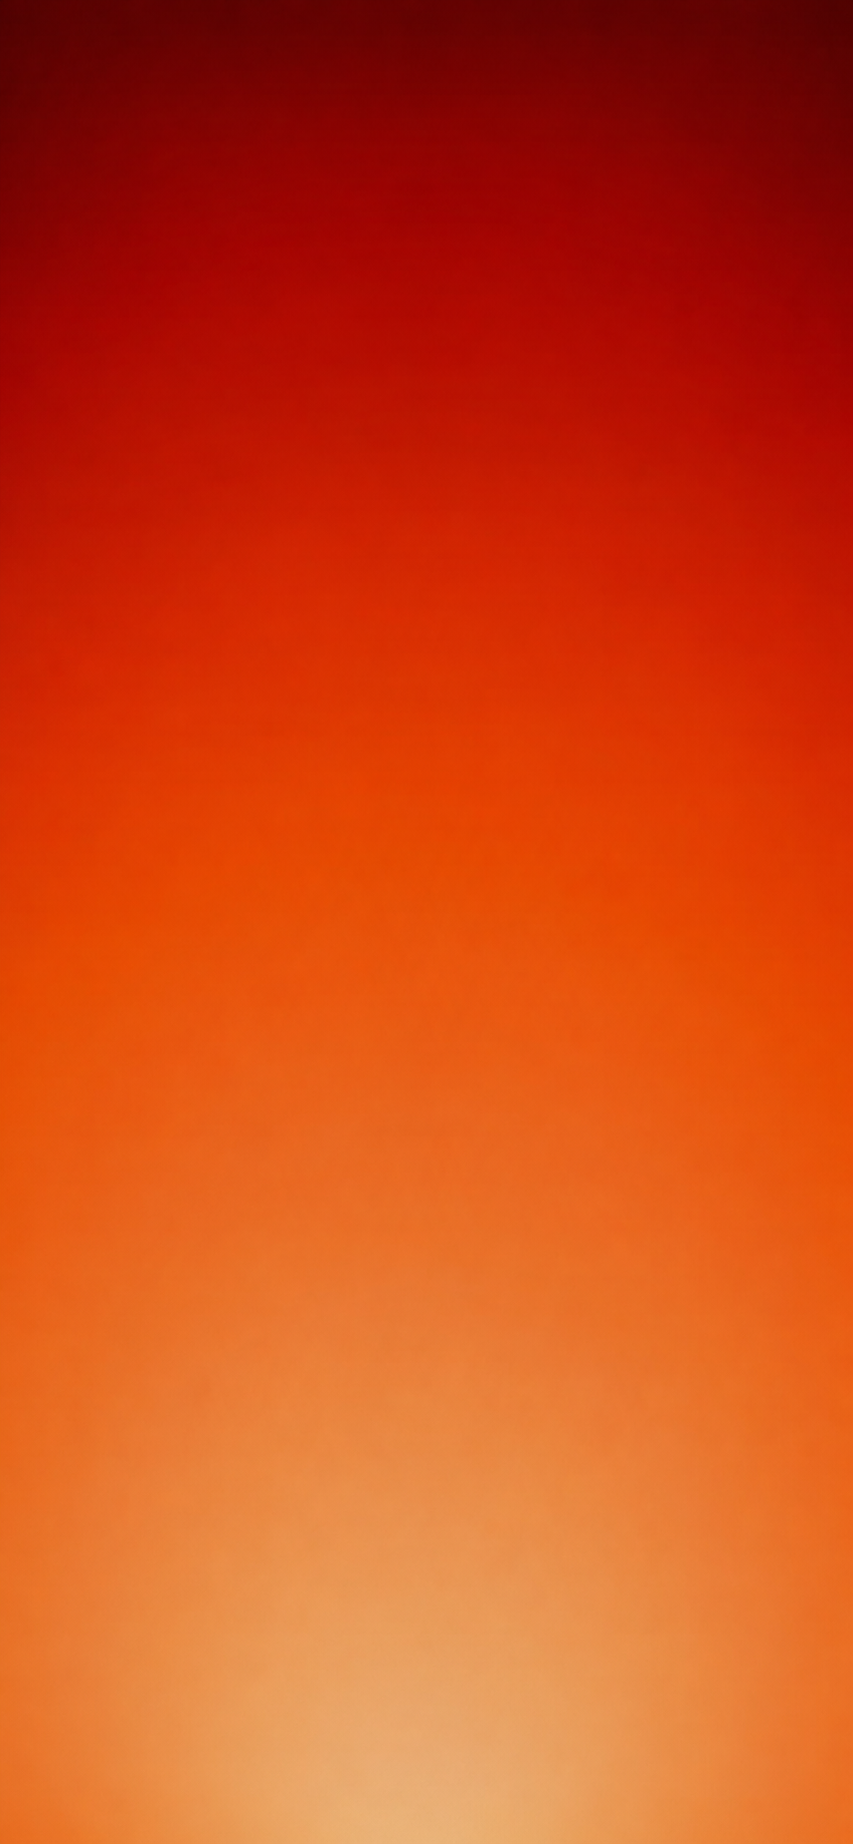
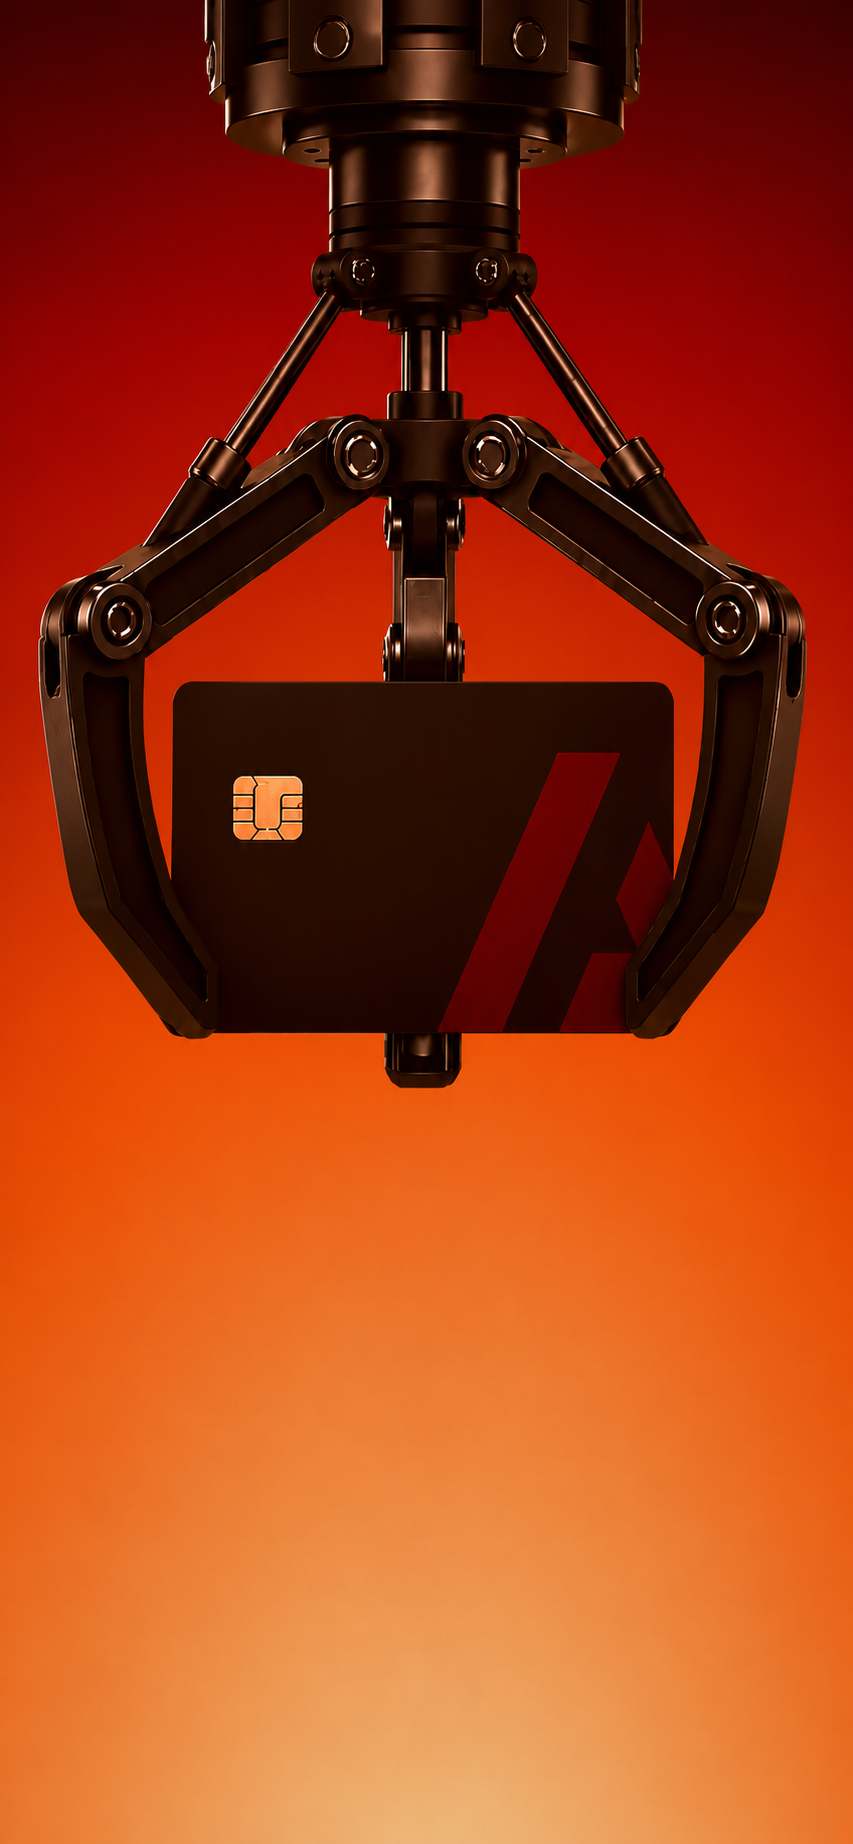
feat: implement onboarding screen with custom fonts and haptic feedback support

diff --git a/src/app/index.tsx b/src/app/index.tsx
@@ -1,46 +1,28 @@
 import React from "react";
 import {
-  Text,
-  View,
-  TouchableOpacity,
   ImageBackground,
+  Platform,
+  StyleSheet,
+  Text,
+  TouchableOpacity,
+  Vibration,
+  View,
 } from "react-native";
-import { useSafeAreaInsets } from "react-native-safe-area-context";
 import { StatusBar } from "expo-status-bar";
-
-function ArrowRightIcon({ size = 20, color = "#111111" }: { size?: number; color?: string }) {
-  return (
-    <View style={{ width: size, height: size }} className="items-center justify-center">
-      <View
-        style={{ width: size * 0.75, height: 2.2, backgroundColor: color }}
-        className="absolute left-0.5 rounded-full"
-      />
-      <View
-        style={{
-          width: size * 0.44,
-          height: 2.2,
-          backgroundColor: color,
-          top: size / 2 - 3.8,
-          transform: [{ rotate: "45deg" }],
-        }}
-        className="absolute right-0.5 rounded-full"
-      />
-      <View
-        style={{
-          width: size * 0.44,
-          height: 2.2,
-          backgroundColor: color,
-          bottom: size / 2 - 3.8,
-          transform: [{ rotate: "-45deg" }],
-        }}
-        className="absolute right-0.5 rounded-full"
-      />
-    </View>
-  );
-}
+import { useSafeAreaInsets } from "react-native-safe-area-context";
+import * as Haptics from "expo-haptics";
 
 export default function OnboardingScreen() {
   const insets = useSafeAreaInsets();
+
+  const handleGetStarted = async () => {
+    try {
+      await Haptics.impactAsync(Haptics.ImpactFeedbackStyle.Medium);
+    } catch {
+      // Fallback to native vibration for platforms/builds where expo-haptics isn't linked
+      Vibration.vibrate(Platform.OS === "android" ? 30 : 15);
+    }
+  };
 
   return (
     <View className="flex-1 bg-black">
@@ -48,7 +30,7 @@ export default function OnboardingScreen() {
 
       <ImageBackground
         source={require("../../assets/images/OnboardingBG.png")}
-        className="flex-1 w-full h-full"
+        className="flex-1"
         resizeMode="cover"
       >
         <View
@@ -58,8 +40,119 @@ export default function OnboardingScreen() {
             paddingBottom: Math.max(insets.bottom, 24) + 12,
           }}
         >
+          {/* Header */}
+          <View className="items-center mb-10">
+            {/* 3D Title */}
+            <View className="items-center justify-center">
+              <Text
+                allowFontScaling={false}
+                maxFontSizeMultiplier={1}
+                style={[styles.title, styles.titleShadowDeep]}
+              >
+                MARK X
+              </Text>
+              <Text
+                allowFontScaling={false}
+                maxFontSizeMultiplier={1}
+                style={[styles.title, styles.titleShadowMid]}
+              >
+                MARK X
+              </Text>
+              <Text
+                allowFontScaling={false}
+                maxFontSizeMultiplier={1}
+                style={[styles.title, styles.titleFront]}
+              >
+                MARK X
+              </Text>
+            </View>
+
+            {/* Subtitles */}
+            <Text
+              allowFontScaling={false}
+              maxFontSizeMultiplier={1}
+              style={styles.subtitleSmall}
+            >
+              REDEFINING
+            </Text>
+            <Text
+              allowFontScaling={false}
+              maxFontSizeMultiplier={1}
+              style={styles.subtitleLarge}
+            >
+              WHAT'S POSSIBLE
+            </Text>
+          </View>
+
+          {/* Action Button */}
+          <TouchableOpacity
+            onPress={handleGetStarted}
+            activeOpacity={0.85}
+            className="h-14 rounded-full bg-white items-center justify-center mb-2"
+          >
+            <Text
+              allowFontScaling={false}
+              maxFontSizeMultiplier={1}
+              style={styles.buttonText}
+            >
+              Get Started
+            </Text>
+          </TouchableOpacity>
         </View>
       </ImageBackground>
     </View>
   );
 }
+
+const styles = StyleSheet.create({
+  title: {
+    fontFamily: "Outfit_900Black",
+    fontSize: 54,
+    lineHeight: 58,
+    letterSpacing: 3,
+    textAlign: "center",
+  },
+  titleShadowDeep: {
+    position: "absolute",
+    top: 4.5,
+    color: "rgba(0, 0, 0, 0.95)",
+    textShadowColor: "rgba(0, 0, 0, 0.8)",
+    textShadowOffset: { width: 0, height: 6 },
+    textShadowRadius: 10,
+  },
+  titleShadowMid: {
+    position: "absolute",
+    top: 2.5,
+    color: "#6E1B00",
+  },
+  titleFront: {
+    color: "#FFFFFF",
+    textShadowColor: "rgba(255, 100, 0, 0.85)",
+    textShadowOffset: { width: 0, height: 2 },
+    textShadowRadius: 8,
+  },
+  subtitleSmall: {
+    fontFamily: "Outfit_400Regular",
+    fontSize: 20,
+    lineHeight: 26,
+    letterSpacing: 4.5,
+    color: "#FFFFFF",
+    textAlign: "center",
+    marginTop: 24,
+  },
+  subtitleLarge: {
+    fontFamily: "Outfit_900Black",
+    fontSize: 28,
+    lineHeight: 34,
+    letterSpacing: 2,
+    color: "#FFFFFF",
+    textAlign: "center",
+    marginTop: 4,
+  },
+  buttonText: {
+    fontFamily: "Outfit_600SemiBold",
+    fontSize: 17,
+    letterSpacing: -0.2,
+    color: "#171717",
+  },
+});

diff --git a/src/app/_layout.tsx b/src/app/_layout.tsx
@@ -1,8 +1,41 @@
 import "../global.css";
+import { useEffect } from "react";
 import { DarkTheme, ThemeProvider, Stack } from "expo-router";
 import { StatusBar } from "expo-status-bar";
+import * as SplashScreen from "expo-splash-screen";
+import {
+  useFonts,
+  Outfit_400Regular,
+  Outfit_500Medium,
+  Outfit_600SemiBold,
+  Outfit_700Bold,
+  Outfit_800ExtraBold,
+  Outfit_900Black,
+} from "@expo-google-fonts/outfit";
+
+// Keep splash screen visible while loading font assets
+SplashScreen.preventAutoHideAsync();
 
 export default function RootLayout() {
+  const [fontsLoaded, fontError] = useFonts({
+    Outfit_400Regular,
+    Outfit_500Medium,
+    Outfit_600SemiBold,
+    Outfit_700Bold,
+    Outfit_800ExtraBold,
+    Outfit_900Black,
+  });
+
+  useEffect(() => {
+    if (fontsLoaded || fontError) {
+      SplashScreen.hideAsync();
+    }
+  }, [fontsLoaded, fontError]);
+
+  if (!fontsLoaded && !fontError) {
+    return null;
+  }
+
   return (
     <ThemeProvider value={DarkTheme}>
       <StatusBar style="light" />
